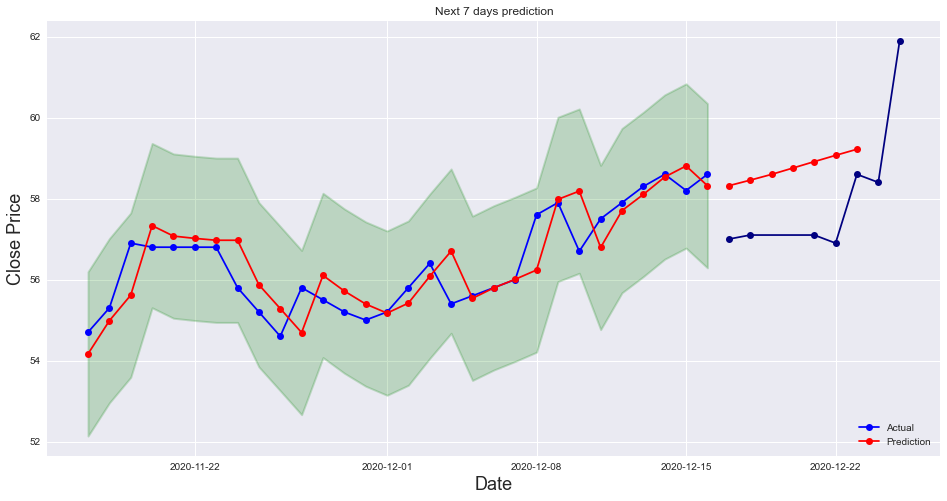
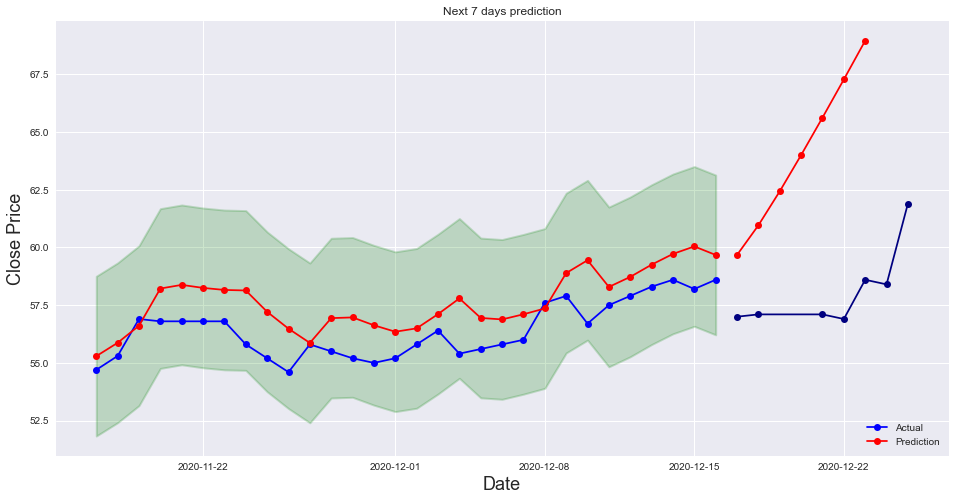
Hoàn chỉnh README

diff --git a/README.md b/README.md
@@ -5,16 +5,16 @@ Học kì I, 2020 - 2021
 
 # ĐỒ ÁN CUỐI KÌ
 
-### Dự đoán giá cổ phiếu
+### Nhóm 5 - Dự đoán giá cổ phiếu
 
 ---
 
 ## 1. Thông tin nhóm 
 
-| Tên  |MSSV|
-|-|:-:|
-| Trần Minh Trí |1712834|
-| Nguyễn Nhật Trường |1712852|
+| Tên  |MSSV|GitHub|
+|-|:-:|-|
+| Trần Minh Trí |1712834|[StrugVN](https://github.com/StrugVN)|
+| Nguyễn Nhật Trường |1712852|[cripplinmuffin](https://github.com/cripplinmuffin)|
 
 ## 2. Nội dung đồ án
 
@@ -90,25 +90,41 @@ Học kì I, 2020 - 2021
 ### 3.3 Train model
 
 * Nhóm sử dụng **mô hình LSTM** của thư viện `keras`,  sau đó, thực hiện validation với các tham số `step`, `learning rate` và `batch_size`.
-* Kết quả các model:
+* Kết quả các model 1 ngày:
 
 ![image](./img/model_1.PNG)
 
+* Kết quả các model 7 ngày:
+
+![image](./img/model_7.PNG)
+
 ### 3.4 Kết quả
 
-* Model tốt nhất được chọn:
+* Model 1 ngày tốt nhất được chọn:
 
-![image](./img/best_model.PNG)
+![image](./img/best_model_1.PNG)
+
+* Model 7 ngày tốt nhất được chọn:
+
+![image](./img/best_model_7.PNG)
 
 * Trực quan hóa kết quả của model được chọn trên tập validation:
+* Model 1 ngày:
 
 ![image](./img/val_res_1.png)
 
 ![image](./img/val_res_2.png)
 
-* Độ lỗi trên tập test sau khi huấn luyện model được chọn với dữ liệu train và validation:
+* Model 7 ngày:
 
-![image](./img/err_1.png)
+![image](./img/val_res_7.png)
+
+![image](./img/val_res_8.png)
+
+* Độ lỗi trên tập test sau khi huấn luyện model được chọn với dữ liệu train và validation:
+* Model 1 ngày:
+
+![image](./img/err_1.PNG)
 
 ![image](./img/err_2.png)
 
@@ -116,14 +132,33 @@ Học kì I, 2020 - 2021
 
 ![image](./img/err_4.png)
 
+![image](./img/err_5.png)
+
+* Model 7 ngày:
+
+![image](./img/err_7.PNG)
+
+![image](./img/err_8.png)
+
+![image](./img/err_9.png)
+
+![image](./img/err_10.png)
+
+![image](./img/err_11.png)
+
 ### 3.5 Dự đoán
 
 * Nhóm thử dự đoán giá đóng cửa cho 7 ngày tiếp theo, với mỗi ngày dự đoán được thêm vào chuỗi quan sát để dự đoán cho ngày tiếp theo:
     * Y(n) = f(O(n-1), O(n-2),...)
     * Y(n+1) = f(Y(n), O(n-1), O(n-2),...)
 * Kết quả thu được như sau:
+* Model 1 ngày:
 
 ![image](./img/predict_1.png)
+
+* Model 7 ngày:
+
+![image](./img/predict_7.png)
 
 ## 4. Đánh giá
 
@@ -133,8 +168,8 @@ Học kì I, 2020 - 2021
 * Học và làm quen với sử dụng pipeline cho việc huấn luyện được gọn gàng hơn.
 
 #### Khó khăn
-* Lần đầu tiếp xúc với việc dự đoán trên kiểu timeseries nên nhóm phải tốn nhiều thời gian nghiên cứu, nhưng thấy được đó vẫn chưa đủ. Tiền xử lý, mô hình hóa còn nhiều chỗ có thể cải tiến để thu được mô hình tốt hơn.
-* Cách dự đoán tương lai gần của mô hình có sai số qua các ngày tăng rất cao, hướng tăng trưởng khi đúng, khi sai tùy model. Nhóm xét thấy phần này thực hiện chưa thành công.
+* Lần đầu tiếp xúc với việc dự đoán trên kiểu timeseries nên nhóm phải tốn nhiều thời gian nghiên cứu, nhưng thấy được đó vẫn chưa đủ.
+* Tiền xử lý, mô hình hóa còn nhiều chỗ có thể cải tiến để thu được mô hình tốt hơn.
 
 #### Hướng phát triển nếu có thêm thời gian
 * Tìm hiểu thêm các phương pháp tiền xử lí để cải tiến mô hình.
@@ -154,7 +189,7 @@ Học kì I, 2020 - 2021
     
     * Cuối cùng, mở jupyter notebook sau khi kích hoạt môi trường `tensorflow` để chạy file notebook.
     
-* * Phần thu thập dữ liệu sử dụng hai thư viện không có sẵn là `selenium` và `requests-HTML`. Hai thư viện này cần được cài đặt trên môi trường `tensorflow` trên, thông qua Anaconda Command Prompt, với cú pháp tương ứng là `pip install selenium` và `pip install requests-html`.
+* Phần thu thập dữ liệu sử dụng hai thư viện không có sẵn là `selenium` và `requests-HTML`. Hai thư viện này cần được cài đặt trên môi trường `tensorflow` trên, thông qua Anaconda Command Prompt, với cú pháp tương ứng là `pip install selenium` và `pip install requests-html`.
 * Với `selenium`, cần tải về phiên bản [chromedriver](https://chromedriver.chromium.org/downloads) phù hợp dựa theo phiên bản trình duyệt Google Chrome của máy, và lưu chung với thư mục chứa file notebook. Dữ liệu đã được lưu ở trong thư mục *csv*.
 
 * Sau khi đã cài đặt các thư viện cần thiết, file notebook chạy bình thường thông qua `Kernel - Restart & Run All`.
